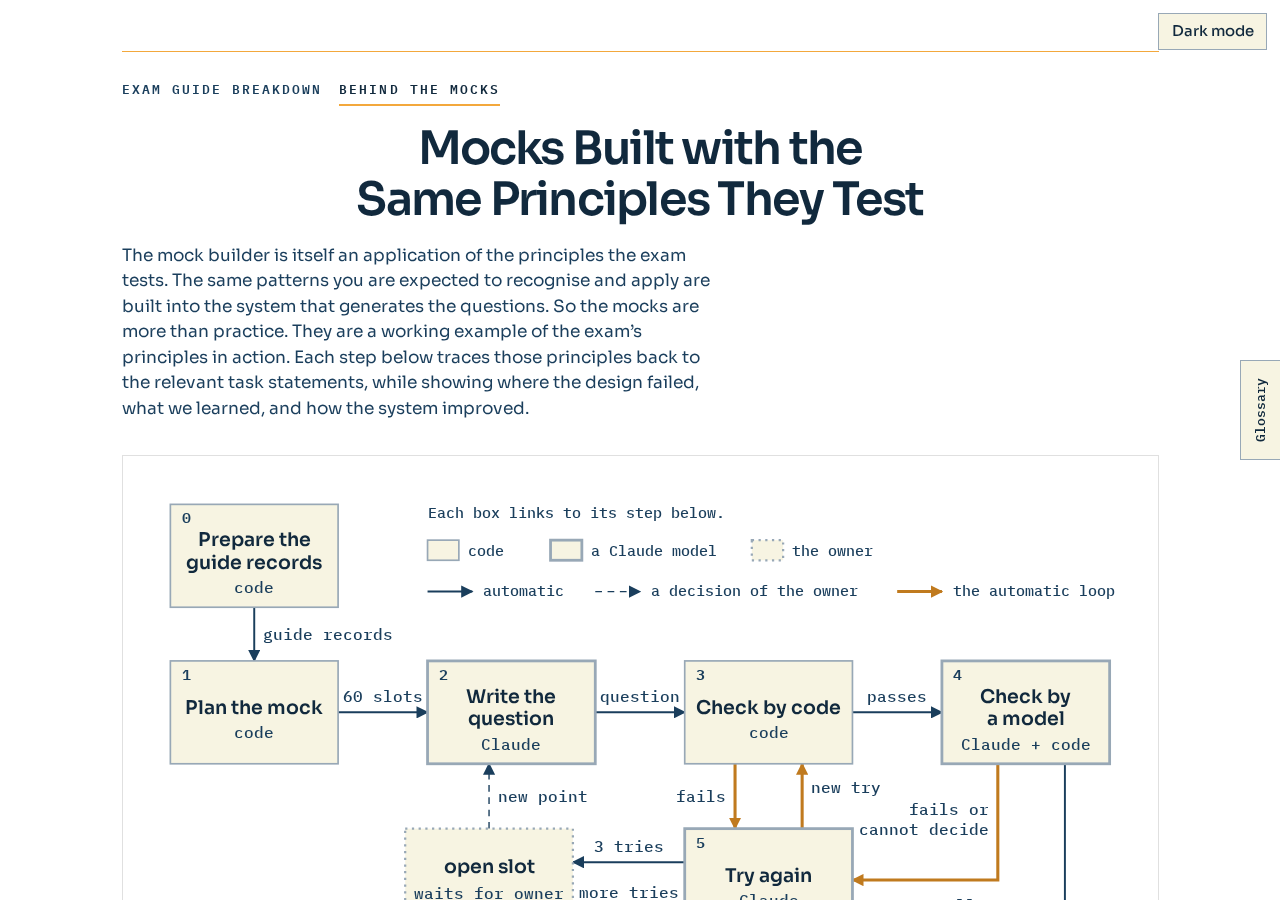
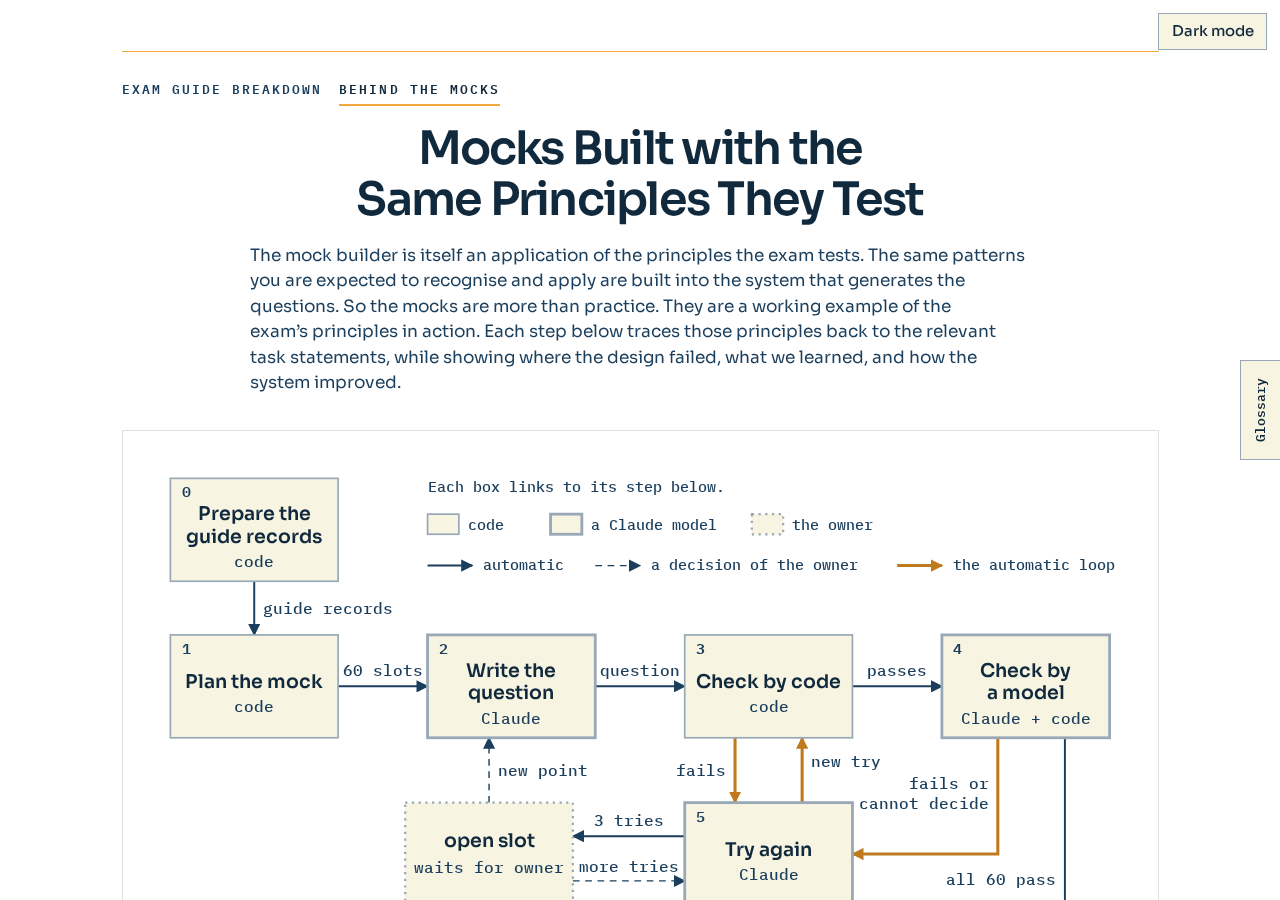
Tab 2: the paragraph of the owner is a centered block under the title, with its lines left-aligned (owner, 15 October 2026). check-pages prints All checks passed for tab 2

Changed region(s): [[0.125, 0.5289, 0.875, 1.0], [0.0938, 0.28, 0.8125, 0.4667]]

diff --git a/academy/pages/academy.css b/academy/pages/academy.css
@@ -387,4 +387,4 @@ details.sources > ul { margin-top: var(--s-2); }
 @media print { .glossary-btn { display: none; } }
 /* tab 2: the title in the center, and the paragraph of the owner in body size (owner, 15 October 2026) */
 h1.title-center { text-align: center; margin-inline: auto; }
-.lead.intro { font-size: var(--t-body); }
+.lead.intro { font-size: var(--t-body); margin-inline: auto; max-width: 60ch; }

diff --git a/academy/journal.md b/academy/journal.md
@@ -15,7 +15,7 @@ One entry for each work session. Newest entry first.
   - Batch 6: sentences over 25 words went from 151 to 34. The 34 are false hits of the count script and the paragraph of the owner.
 - Open for the owner: the Overview of 3.2 does not name context: fork (check B3). The paragraphs that read as one long underline (the owner said to take this next).
 - Pushed to GitHub at 29f95da, with the yes of the owner. The owner then asked if the reader checks had found that the text is too dense. They had not: their agents read extracted text, so they never saw the dotted lines. The owner chose, for now, to show the dots only on the fact under the pointer (first on the paragraph, then, at the request of the owner, on the one fact). A touch screen keeps them. The owner agrees that the real cause is text written as a chain of sourced facts, and declined a trial rewrite of part 1.3 for now.
-- Tab 2: the title is in the center, and the paragraph of the owner below it has body size (owner, 15 October 2026).
+- Tab 2: the title is in the center, and the paragraph of the owner below it has body size, and its block is centered under the title with its lines left-aligned (owner, 15 October 2026).
 - The figure number (for example "Fig. A") now stands on its own line above the caption, on all figures (owner, 15 October 2026). The owner kept the caption of Fig. A as it is.
 - Decision 0044: the glossary of each tab is a panel at the right side, opened by a fixed button "Glossary". Each list of sources is a closed section with its count. "Sources of the top" is now "Sources of the introduction". check-pages prints "All checks passed." for both tabs.
 
